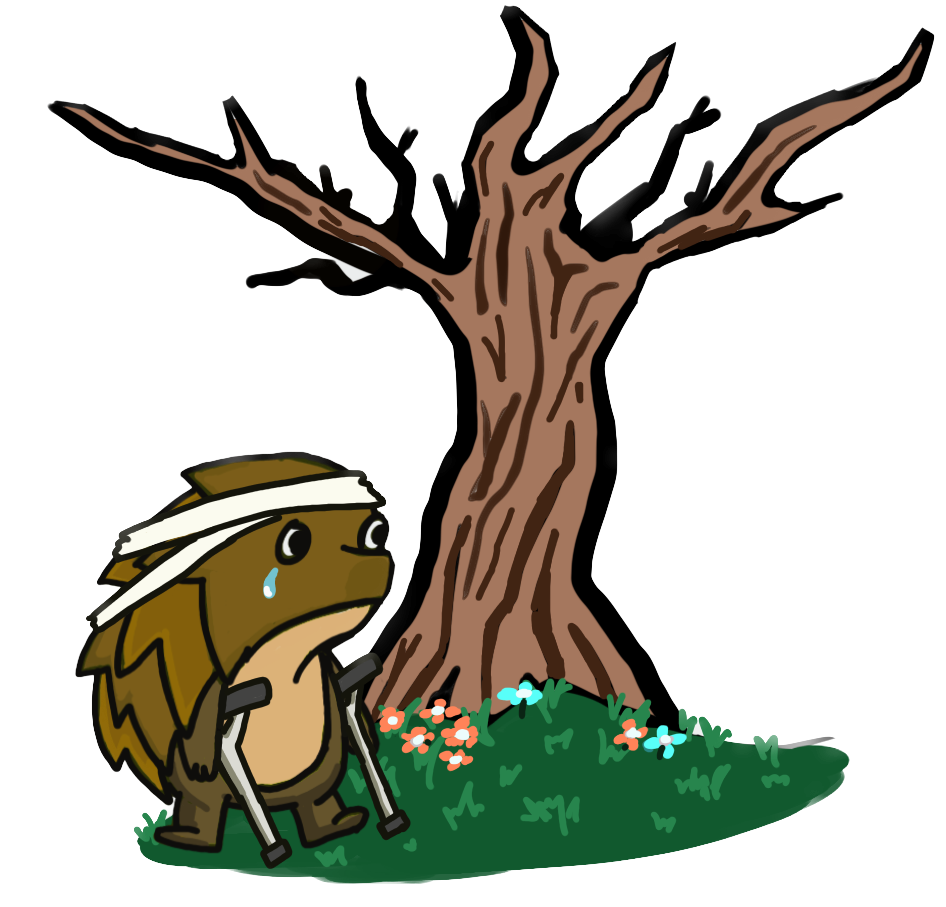
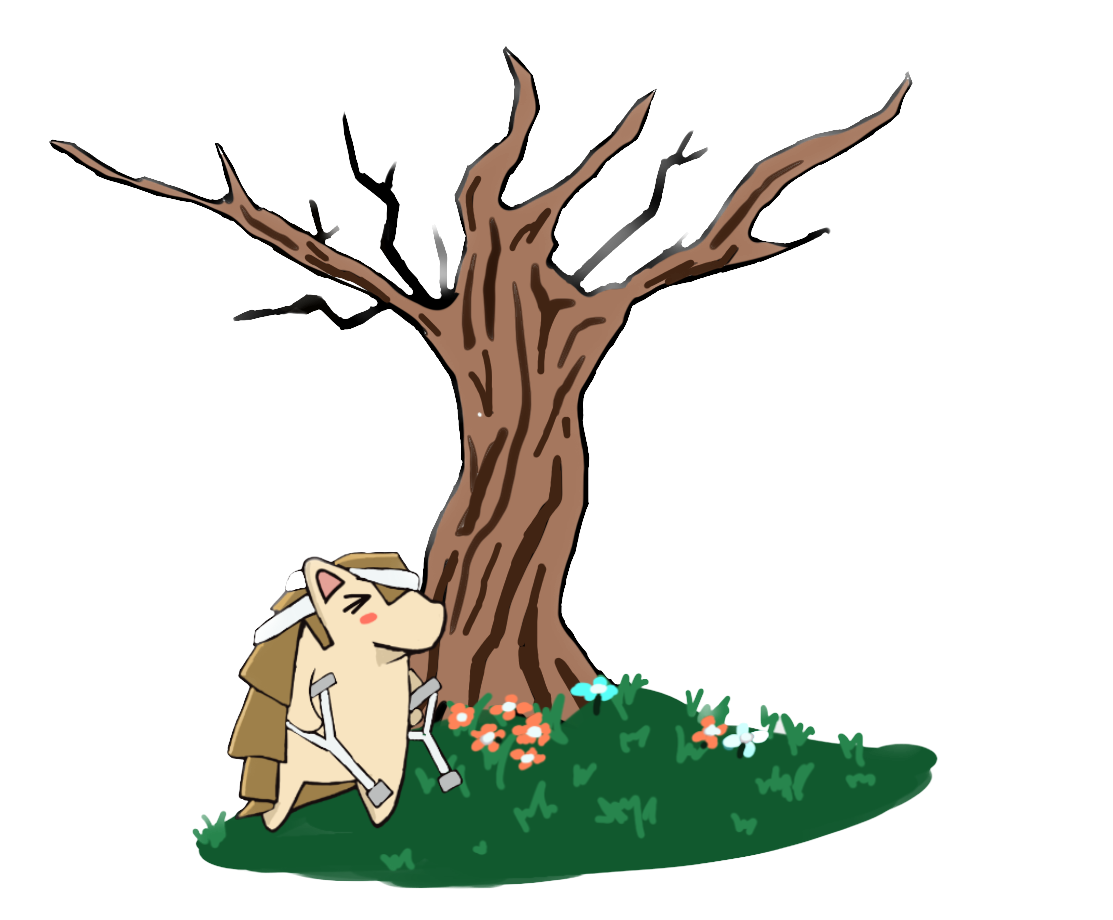
Frontend update

diff --git a/frontend-hacksg/src/pages/Home.tsx b/frontend-hacksg/src/pages/Home.tsx
@@ -4,7 +4,11 @@ import { useNavigate } from 'react-router-dom';
 import '../App.css'; 
 
 // Importing the image from local assets directory
-import image from '../assets/images/test.png';  // Adjust the path as necessary
+import pango from '../assets/images/pango_lvl1.png';  
+import pango2 from '../assets/images/pango_lvl2.png';
+import pango3 from '../assets/images/pango_lvl3.png';
+import pango4 from '../assets/images/pango_lvl4.png';
+import AchievementsGrid from '../components/Achievements';
 
 
 const Home = () => {
@@ -16,24 +20,29 @@ const Home = () => {
 
     return (
         <div className='page' style={{ backgroundColor: 'var(--primary-color)', color: 'var(--secondary-color)' }}> 
-        <h3 className='text-center mt-3' style={{color: 'var(--text-color)'}}>Level 3</h3>
+        <h3 className='text-center mt-3' style={{color: 'var(--text-color)'}}>Level 3: Baby Pango</h3>
         <div className="progress">
             <div className="progress-bar progress-bar-striped" role="progressbar" style={{ width: '60%' }} aria-valuenow={10} aria-valuemin={0} aria-valuemax={100}></div>
         </div>
-            <Container className='d-flex justify-content-center align-items-center' style={{ minHeight: '10vh' }}>
-                <Row>
+            <Container className='d-flex justify-content-center align-items-center' style={{ minHeight: '65vh' }}>
+                <Row style={{backgroundColor: "var()"}}>
                     <Col>
                         {/* Inline styles to set image size */}
-                        <Image src={image} alt="Banner" style={{ width: '600px', height: 'auto' }} className="mx-auto d-block" />
-                        {/* <h1 className='text-center mt-3' style={{color: 'var(--text-color)'}}>Ready to grow?</h1> */}
+                        <Image src={pango4} alt="Pango" style={{ width: '300px', height: 'auto' }} className="mx-auto d-block" />
                     </Col>
                     <Col xs={12} md={4} className="d-flex justify-content-center">
-                    <Button variant="success" className="custom-btn" onClick={() => handleNavigate('/events/volunteer')}>Join</Button>
+                    <Button variant="success" className="custom-btn" onClick={() => handleNavigate('/events/volunteer')}>Search</Button>
                     <Button variant="primary" className="custom-btn"onClick={() => handleNavigate('/upcoming')}>Upcoming</Button>
                     <Button variant="secondary" className="custom-btn" onClick={() => handleNavigate('/history')}>History</Button>
                 </Col>
                 </Row>
-            </Container>
+            </Container >
+            <Row>
+                <Col>
+                <h4 className='text-center mt-3' style={{color: 'var(--text-color)'}}>Achievements: 1/5</h4>
+                <AchievementsGrid user={{ achievements: ["Red Cross!", "Animal Lover", "Saving the Beach!", "Helping Ah Ma!"] }} />    
+                </Col>
+            </Row>
         </div>
     );
 }

diff --git a/frontend-hacksg/src/components/PaginatedCards.tsx b/frontend-hacksg/src/components/PaginatedCards.tsx
@@ -1,0 +1,40 @@
+import React, { useState } from 'react';
+import { Pagination, Container, Row, Col } from 'react-bootstrap';
+import LongCard from './LongCard';  // Assuming LongCard is in the same directory
+
+const PaginatedCards = ({ events }: { events: any[] }) => {
+    const [currentPage, setCurrentPage] = useState(1);
+    const itemsPerPage = 3;
+
+    // Calculate number of pages
+    const pageCount = Math.ceil(events.length / itemsPerPage);
+
+    // Load current page items
+    const startIndex = (currentPage - 1) * itemsPerPage;
+    const currentPageItems = events.slice(startIndex, startIndex + itemsPerPage);
+
+    const handlePageChange = (pageNumber: number) => {
+        setCurrentPage(pageNumber);
+    };
+
+    return (
+        <Container>
+            <Row>
+                {currentPageItems.map(event => (
+                    <Col key={event.id} sm={12} md={6} lg={4}>
+                        <LongCard {...event} />
+                    </Col>
+                ))}
+            </Row>
+            <Pagination className="justify-content-center">
+                {Array.from(Array(pageCount).keys()).map(number => (
+                    <Pagination.Item key={number + 1} active={number + 1 === currentPage} onClick={() => handlePageChange(number + 1)}>
+                        {number + 1}
+                    </Pagination.Item>
+                ))}
+            </Pagination>
+        </Container>
+    );
+};
+
+export default PaginatedCards;

diff --git a/frontend-hacksg/src/components/LongCard.tsx b/frontend-hacksg/src/components/LongCard.tsx
@@ -1,0 +1,22 @@
+import { Button, Card } from 'react-bootstrap'
+import { Event } from '../types/Event'
+
+import { convertDateTime, getTime } from '../constants/convertDateTime'
+
+import kids from '../assets/images/thumbnails/kids.jpg'
+
+const LongCard = (event: Event) => {
+    return (
+        <Card style={{ width: '25rem', height: '20rem', maxHeight: '18rem'}}>
+            <Card.Body>
+                <Card.Img className='mb-2 rounded' variant="top" src={kids} width='170' height='140'/>
+                <Card.Title className="h4 mb-3">{event.title}</Card.Title>
+                <Card.Subtitle className='mb-2'>Date: {convertDateTime(event.startDateTime)}</Card.Subtitle>
+                <Card.Subtitle className='mb-2'>From {getTime(event.startDateTime)} to {getTime(event.endDateTime)}</Card.Subtitle>
+                <Card.Text className='mb-2 overflow-hidden text-truncate'>{event.desc}</Card.Text>
+            </Card.Body>
+        </Card>
+    )
+}
+
+export default LongCard;
